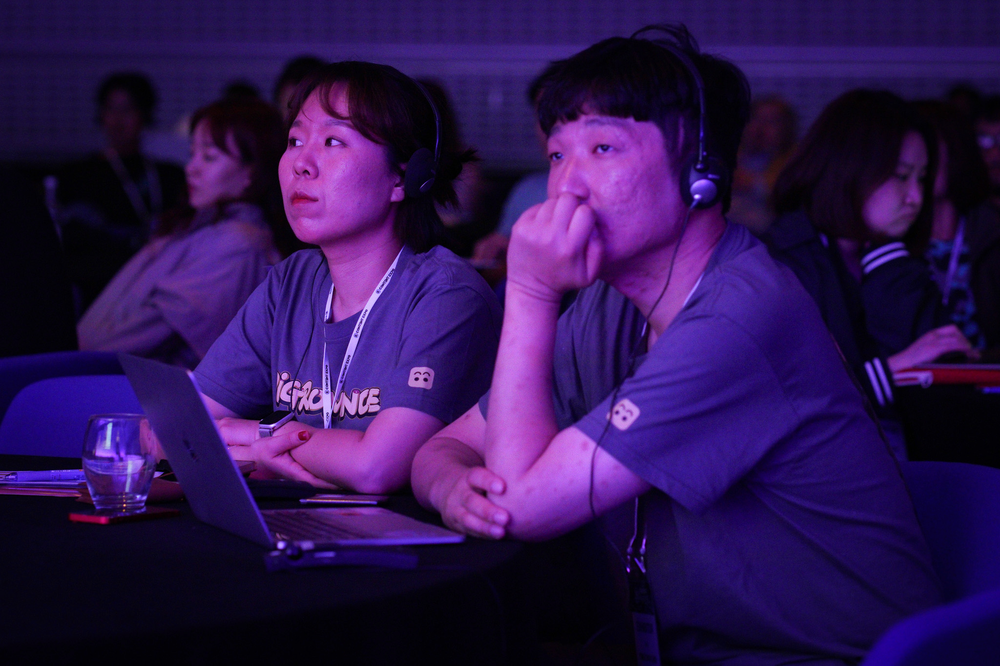
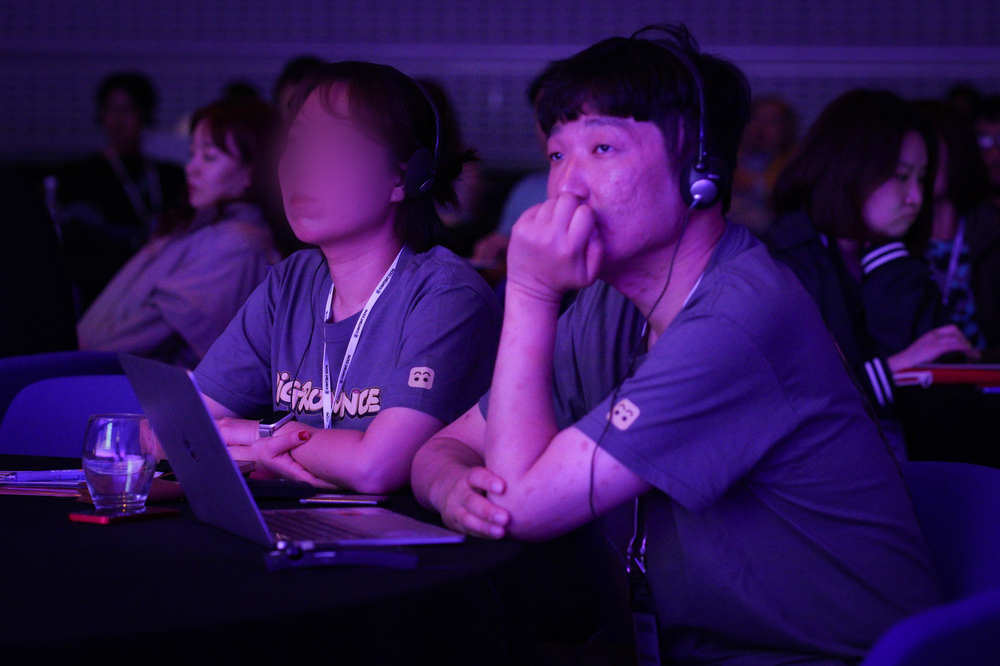
여자 얼굴 블러처리.

Changed region(s): [[0.248, 0.1201, 0.403, 0.3604]]

diff --git a/src/components/Layout/Nav.tsx b/src/components/Layout/Nav.tsx
@@ -55,7 +55,7 @@ export function Nav() {
         {/* Logo */}
         <Link href="/" className="font-bold text-lg md:text-xl tracking-tight z-[100] leading-none">
           CREATIVE DIRECTOR<br />
-          & IP ARCHITECT.
+          & IP ARCHITECT
         </Link>
 
         {/* Desktop Nav */}

diff --git a/blur_faces.py b/blur_faces.py
@@ -1,0 +1,92 @@
+import cv2
+import os
+
+image_dir = '/Users/pigromance/Downloads/MyPortfolio2/my-portfolio/public/image'
+
+blur_data = {
+    'asset_04d14be2.png': [[385, 422, 72, 72]],
+    'kasset_04d14.png': [[385, 422, 72, 72]],
+    
+    'asset_0e0e5bbc.png': [
+        [307, 206, 52, 52], 
+        [683, 222, 61, 61], 
+        [687, 215, 72, 72]
+    ],
+    'kasset_0e0e5.png': [
+        [307, 206, 52, 52], 
+        [683, 222, 61, 61], 
+        [687, 215, 72, 72]
+    ],
+    
+    'asset_c6e041ef.png': [[150, 694, 55, 55]],
+    'kasset_c6e04.png': [[150, 694, 55, 55]],
+    
+    'asset_ee19ad3e.png': [
+        [191, 389, 28, 28], [333, 454, 27, 27], [676, 477, 29, 29],
+        [464, 528, 29, 29], [623, 480, 31, 31], [557, 523, 29, 29],
+        [409, 529, 26, 26], [382, 458, 26, 26], [269, 451, 28, 28],
+        [752, 429, 33, 33]
+    ],
+    'kasset_ee19a.png': [
+        [191, 389, 28, 28], [333, 454, 27, 27], [676, 477, 29, 29],
+        [464, 528, 29, 29], [623, 480, 31, 31], [557, 523, 29, 29],
+        [409, 529, 26, 26], [382, 458, 26, 26], [269, 451, 28, 28],
+        [752, 429, 33, 33]
+    ],
+    
+    'asset_59412863.png': [[256, 102, 114, 114], [253, 77, 167, 167]],
+    'kasset_59412.png': [[256, 102, 114, 114], [253, 77, 167, 167]],
+    
+    '23ec9de1-b6cc-4525-8800-aa52b68f6a23.png': [[284, 177, 68, 68]],
+    
+    'graffiti_yoons.jpg': [[145, 31, 52, 52]],
+    'kasset_cf77f.jpg': [[145, 31, 52, 52]],
+    
+    'kasset_98e2f.png': [[629, 412, 61, 61]],
+    'asset_98e2f47e.png': [[629, 412, 61, 61]],
+
+    'typo_class_3.jpg': [[135, 12, 107, 107]],
+    
+    'kasset_52a60.png': [[269, 451, 28, 28]],
+    'kasset_4fb64.png': [[269, 451, 28, 28]],
+    'asset_4fb64fbf.png': [[269, 451, 28, 28]]
+}
+
+def blur_face(img, x, y, w, h):
+    pad = int(min(w, h) * 0.25)
+    x1, y1 = max(0, x - pad), max(0, y - pad)
+    x2, y2 = min(img.shape[1], x + w + pad), min(img.shape[0], y + h + pad)
+    
+    if x1 >= img.shape[1] or y1 >= img.shape[0] or x2 <= x1 or y2 <= y1:
+        return img
+    
+    face_region = img[y1:y2, x1:x2]
+    
+    ksize = int(max(w, h) * 0.5)
+    if ksize % 2 == 0: ksize += 1
+    if ksize < 15: ksize = 15
+    
+    blurred_face = cv2.GaussianBlur(face_region, (ksize, ksize), 30)
+    
+    mask = cv2.getGaussianKernel(blurred_face.shape[0], -1) * cv2.getGaussianKernel(blurred_face.shape[1], -1).T
+    mask = mask / mask.max()
+    mask = mask[..., None]
+    
+    img[y1:y2, x1:x2] = img[y1:y2, x1:x2] * (1 - mask) + blurred_face * mask
+    return img
+
+for filename, boxes in blur_data.items():
+    filepath = os.path.join(image_dir, filename)
+    if not os.path.exists(filepath):
+        print(f"File not found: {filename}")
+        continue
+        
+    img = cv2.imread(filepath)
+    if img is None:
+        continue
+        
+    for x, y, w, h in boxes:
+        img = blur_face(img, x, y, w, h)
+        
+    cv2.imwrite(filepath, img)
+    print(f"Blurred {filename}")

diff --git a/detect_faces.py b/detect_faces.py
@@ -1,0 +1,51 @@
+import cv2
+import os
+import shutil
+
+image_dir = '/Users/pigromance/Downloads/MyPortfolio2/my-portfolio/public/image'
+out_dir = '/Users/pigromance/.gemini/antigravity/brain/1e98aaa5-70fe-48bd-af3e-fd5b80ba61af/browser/faces'
+if os.path.exists(out_dir):
+    shutil.rmtree(out_dir)
+os.makedirs(out_dir)
+
+face_cascade = cv2.CascadeClassifier(cv2.data.haarcascades + 'haarcascade_frontalface_default.xml')
+profile_cascade = cv2.CascadeClassifier(cv2.data.haarcascades + 'haarcascade_profileface.xml')
+
+html = "<html><body><h1>Detected Faces</h1><ul>\n"
+
+for filename in os.listdir(image_dir):
+    if not (filename.lower().endswith('.jpg') or filename.lower().endswith('.png') or filename.lower().endswith('.jpeg')):
+        continue
+    filepath = os.path.join(image_dir, filename)
+    img = cv2.imread(filepath)
+    if img is None: continue
+    
+    gray = cv2.cvtColor(img, cv2.COLOR_BGR2GRAY)
+    
+    faces = face_cascade.detectMultiScale(gray, scaleFactor=1.1, minNeighbors=5, minSize=(20, 20))
+    profiles = profile_cascade.detectMultiScale(gray, scaleFactor=1.1, minNeighbors=5, minSize=(20, 20))
+    
+    all_faces = []
+    if len(faces) > 0:
+        all_faces.extend(faces)
+    if len(profiles) > 0:
+        all_faces.extend(profiles)
+    
+    for i, (x, y, w, h) in enumerate(all_faces):
+        # expand bounding box slightly
+        cx, cy = x + w//2, y + h//2
+        s = max(w, h)
+        x1 = max(0, cx - int(s*0.7))
+        y1 = max(0, cy - int(s*0.7))
+        x2 = min(img.shape[1], cx + int(s*0.7))
+        y2 = min(img.shape[0], cy + int(s*0.7))
+        
+        face_img = img[y1:y2, x1:x2]
+        face_filename = f"{filename}_face_{i}_{x}_{y}_{w}_{h}.jpg"
+        cv2.imwrite(os.path.join(out_dir, face_filename), face_img)
+        html += f"<li>{filename} - Face {i}: <br/><img src='{face_filename}' style='height:150px;'/> <br/> Box: {x},{y},{w},{h}</li>\n"
+
+html += "</ul></body></html>"
+with open(os.path.join(out_dir, 'index.html'), 'w') as f:
+    f.write(html)
+print(f"Generated {out_dir}/index.html")
